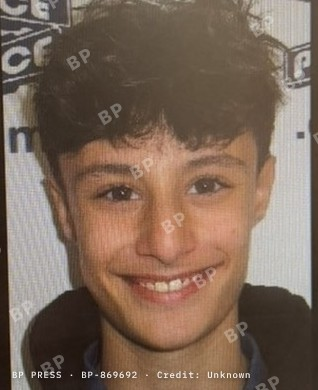
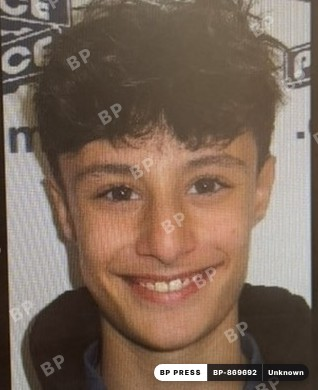
Photo credits: Daniel Marks (1), Sofia Reyes (2); BP Press label as a pill bottom-right
Claude-Session: https://claude.ai/code/session_01R4Yd9DXFZUHxv4JskfZizu

Changed region(s): [[0.4811, 0.9231, 0.9906, 0.9846], [0.2547, 0.9538, 0.4245, 0.9846], [0.0283, 0.9538, 0.1981, 0.9846]]

diff --git a/clients/photo-originals/make-watermarks.js b/clients/photo-originals/make-watermarks.js
@@ -2,7 +2,7 @@
 //   JL Media (1, 2, 4): corner logo + one big faint name   ·   BP Press (3): "BP" tiled diagonally across the photo, "BP PRESS" in the corner   ·   BG Coverage (5): five slanted faint names
 const { chromium } = require('playwright'); const fs = require('fs');
 const R = '/home/user/kulmanzimanwebsiterepo';
-const P = [['ryder-ziman-1', 'Jessica Lee', 'jl'], ['ryder-ziman-2', 'Jessica Lee', 'jl'], ['ryder-ziman-3', 'Unknown', 'ss'], ['ryder-ziman-4', 'Jessica Lee', 'jl']];   // the photos with Maxim and with his dad were taken down   // the Maxim photo was taken down; the instant photo (cropped to Ryder and his dad) is 5
+const P = [['ryder-ziman-1', 'Daniel Marks', 'jl'], ['ryder-ziman-2', 'Sofia Reyes', 'jl'], ['ryder-ziman-3', 'Unknown', 'ss'], ['ryder-ziman-4', 'Jessica Lee', 'jl']];   // the photos with Maxim and with his dad were taken down   // the Maxim photo was taken down; the instant photo (cropped to Ryder and his dad) is 5
 const NUM = {"ryder-ziman-1": "583324", "ryder-ziman-2": "220100", "ryder-ziman-3": "869692", "ryder-ziman-4": "918102", "ryder-ziman-5": "200035"};
 const PREFIX = { jl: 'JL-', ss: 'BP-', bg: 'BG-' };
 (async () => { const b = await chromium.launch();
@@ -15,7 +15,7 @@ const PREFIX = { jl: 'JL-', ss: 'BP-', bg: 'BG-' };
     const px = v => Math.round(v * u) + 'px';
     const marks = {
       jl: `<div class="big">JL Media</div><div class="lg">JL<span> Media</span></div><div class="id">${id} · Credit: ${cred}</div>`,
-      ss: `<div class="bpt">${Array(30).fill('<span>BP</span>').join('')}</div><div class="id">BP PRESS · ${id} · Credit: ${cred}</div>`,
+      ss: `<div class="bpt">${Array(30).fill('<span>BP</span>').join('')}</div><div class="bpb"><b>BP PRESS</b><span>${id}</span><span>${cred}</span></div>`,
       bg: `<div class="bgt">${Array(5).fill('<span>BG COVERAGE</span>').join('')}</div><div class="bgc"><b>BG</b>COVERAGE</div><div class="id">${id} · Credit: ${cred}</div>`,
     };
     const html = `<link href="https://fonts.googleapis.com/css2?family=Inter:wght@400;800;900&family=IBM+Plex+Mono:wght@500&family=Archivo:wdth,wght@125,800&display=swap" rel="stylesheet">
@@ -33,6 +33,9 @@ const PREFIX = { jl: 'JL-', ss: 'BP-', bg: 'BG-' };
 .ssid{right:${px(38)};bottom:${px(38)};font:500 ${Math.max(8, Math.round(13 * u))}px "IBM Plex Mono";letter-spacing:.1em;color:#fff;text-shadow:0 1px 6px rgba(0,0,0,.7)}
 /* BP Press: "BP PRESS" tiled diagonally across the whole photo, like a stock-photo preview */
 .bpt{inset:-30%;transform:rotate(-30deg);display:grid;grid-template-columns:repeat(3,1fr);gap:${px(80)} ${px(34)};align-content:center;justify-items:center}
+.bpb{right:${px(18)};bottom:${px(18)};display:flex;align-items:stretch;border-radius:${px(30)};overflow:hidden;box-shadow:0 ${px(4)} ${px(16)} rgba(0,0,0,.35);font:600 ${Math.max(7, Math.round(13 * u))}px Inter;letter-spacing:.06em}
+.bpb b{background:#fff;color:#111;padding:${px(7)} ${px(12)};font-weight:900;letter-spacing:.14em}
+.bpb span{background:rgba(15,15,18,.78);color:#fff;padding:${px(7)} ${px(10)};border-left:1px solid rgba(255,255,255,.18)}
 .bpt span{font:800 ${px(34)} Inter;letter-spacing:.12em;color:rgba(255,255,255,.28);white-space:nowrap}
 /* BGMEDIA: five slanted faint names across the photo, a small boxed logo in the corner */
 .bgt{left:-12%;right:-12%;top:2%;bottom:14%;transform:rotate(-20deg);display:flex;flex-direction:column;justify-content:space-between;align-items:center}

diff --git a/build.py b/build.py
@@ -287,8 +287,8 @@ SIDE_LOCK = ("<style>html{overflow-x:hidden}"
 
 
 PHOTOS = [   # (page and file name, description, width, height, photo credit): files in static/images/ryder-ziman/
-    ("ryder-ziman-1", "Ryder Ziman speaking at a podium", 840, 468, "Jessica Lee"),
-    ("ryder-ziman-2", "Ryder Ziman in a navy suit", 296, 470, "Jessica Lee"),
+    ("ryder-ziman-1", "Ryder Ziman speaking at a podium", 840, 468, "Daniel Marks"),
+    ("ryder-ziman-2", "Ryder Ziman in a navy suit", 296, 470, "Sofia Reyes"),
     ("ryder-ziman-3", "Ryder Ziman smiling", 318, 390, "Unknown"),
     ("ryder-ziman-4", "Ryder Ziman lifted on a chair at a celebration", 1600, 1066, "Jessica Lee"),
 ]

diff --git a/MEMORY.md b/MEMORY.md
@@ -52,7 +52,7 @@ Last updated: Nov 27, 2026 (after v298).
    npm install
    whop apps deploy --app app_JdRDs81kkoj3CZ
    ```
-- **Latest version: v333.**
+- **Latest version: v334.**
 
 ## The site (mono theme)
 - **Pages:** Home, Pricing (products), About, Portfolio, Affiliates, Help, Legal, Get Started, Ryder Ziman (/ryderziman).
@@ -72,7 +72,7 @@ Last updated: Nov 27, 2026 (after v298).
   - Marks (clients/photo-originals/make-watermarks.js): "JL Media" on 1, 2, 4; "BP" tiled diagonally across photo 3 with "BP PRESS" in the corner .
   - Photo IDs are fixed random numbers (NUM in make-watermarks.js).
   - Ryder asked for "BFA Coverage" on 5; declined (BFA = Billy Farrell Agency, a real event-photo agency).
-  - Fake "404" look, titles from TITLES in build.py ("Ziman, Ryder" on 1-3, "R. Ziman (BPP)" on 4), credits: "Jessica Lee" on every JL Media photo (1, 2, 4), "Unknown" on 3.
+  - Fake "404" look, titles from TITLES in build.py ("Ziman, Ryder" on 1-3, "R. Ziman (BPP)" on 4), credits: "Daniel Marks" (1), "Sofia Reyes" (2), "Jessica Lee" (4, chair), "Unknown" (3). BP label is a pill bottom-right (differs from JL).
   - Photos carry a burned-in "JL Press" mark (Ryder's choice, style 5): corner logo, faint big name, "JL-00000N · Credit: ...". Clean originals + script in clients/photo-originals (make-watermarks.js).
   - Ryder asked for a visible Getty Images tag; declined (real company's branding on photos it doesn't own). The URL prefix was his call after a warning.
 - **PageSpeed (Nov 26):**
